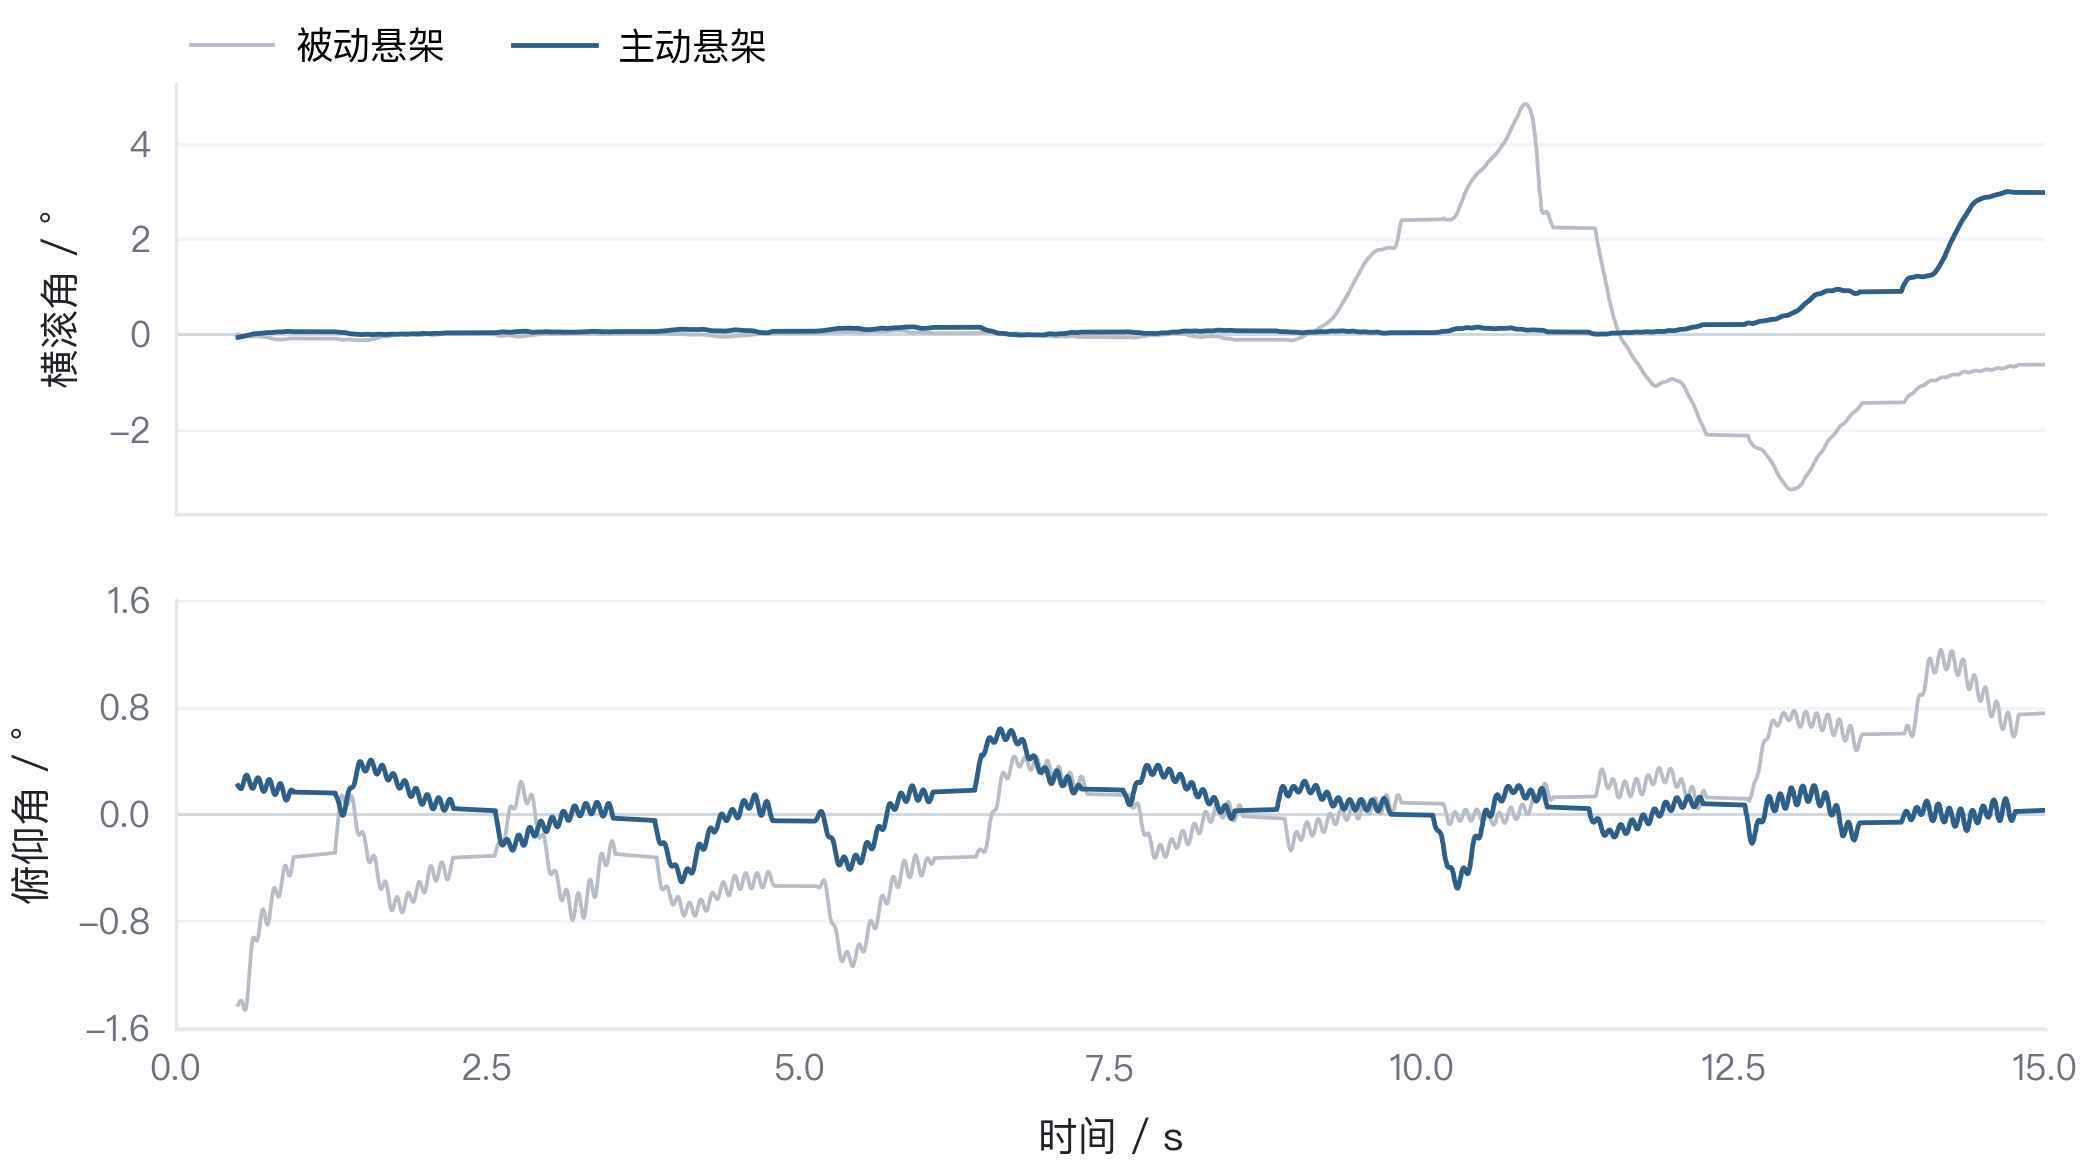
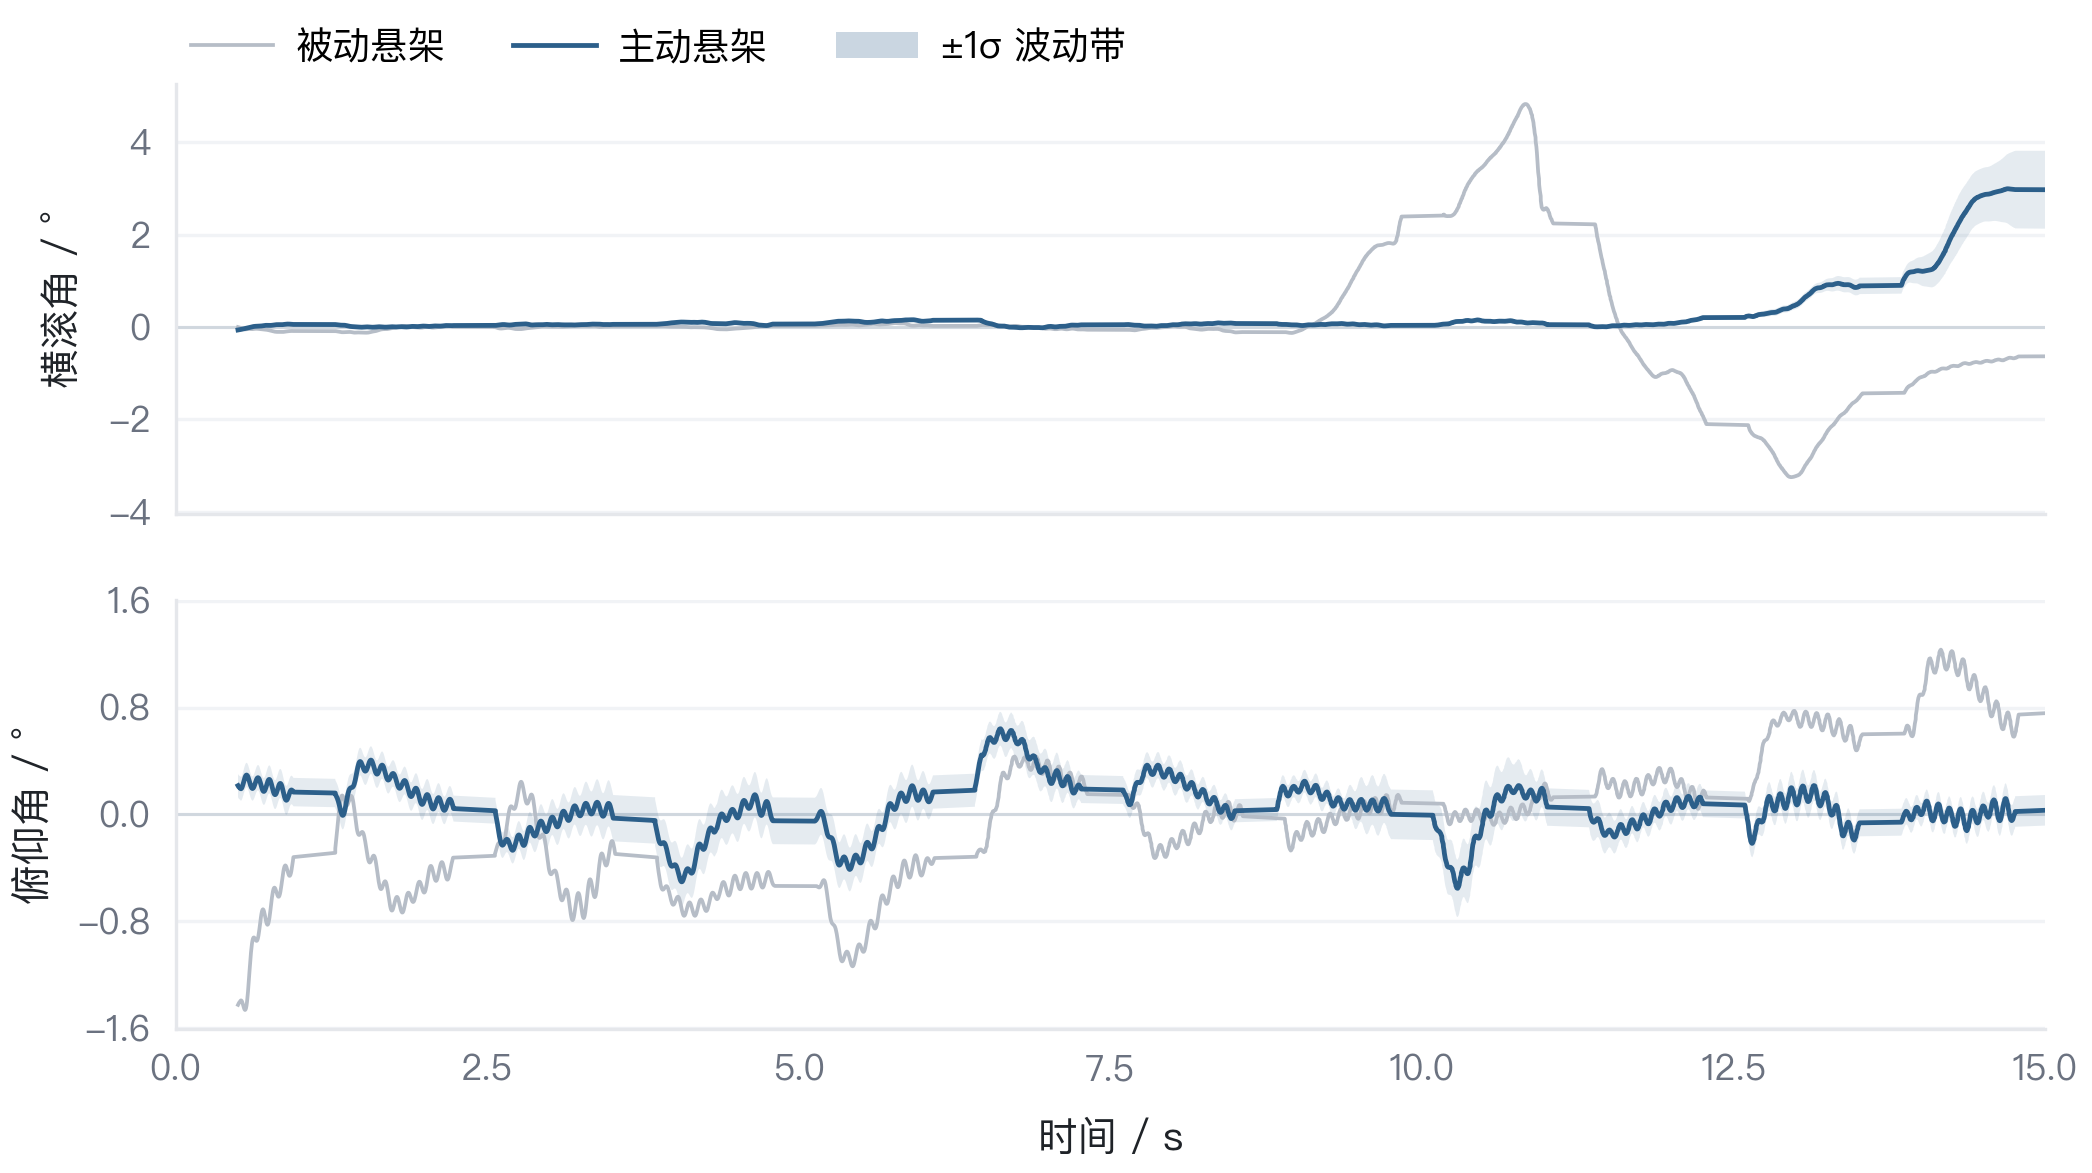
style(docs): 主动曲线加一层很淡的 ±1σ 波动带
## 口径（重要）

"置信带"在这里必须定义清楚，否则很容易变成视觉装饰：

- 单次采集没有重复样本，严格意义的置信区间无从谈起；
- 曲线本身已是 36 ms 滑动平均，相对它的残差 σ 只有 0.001–0.02°，
  按这个口径画出来的带在 300 dpi 图上不足 1 px，实际上不可见；
- 所以改为"原始信号相对 **1 s 趋势线** 的局部 ±1σ"，量级 0.12–0.27°，
  在图上可见且物理含义明确：**1 s 尺度上的观测波动幅度**。
  图注与脚本注释都写明"非统计置信区间"。

## 视觉

- `fill_between`，主动色、透明度 0.12、无描边，zorder 在网格之上、主线之下；
- 图例增加一个同色半透明色块，第三项标注"±1σ 波动带"；
- 波动带会把自动缩放撑大（障碍图纵轴一度变成 -6..17、刻度 0/6/12），
  障碍图把 ylim 钉回 -4.6..17.4，刻度恢复 0/5/10/15；
- 配色、带宽、窗长仍集中在脚本顶部常量：`BAND_ALPHA / BAND_SIGMA /
  BAND_BASE_S / BAND_WINDOW_S / BAND_SMOOTH`。

diff --git a/README.md b/README.md
@@ -379,10 +379,10 @@ ros2 run car_balancer test_imu_node
 > 波动 = 各路段动态行驶段（被动取 `Mode=0` 段、主动取全程）姿态角 / 垂向加速度相对各自均值的峰峰值；改善 =（被动 − 主动）/ 被动。三次测试为不同路段独立采集，工况 02 主动侧俯仰与垂向略高于被动、工况 03 横滚主动侧略大，应与各次路面输入不一致有关，此处如实列出。
 
 <p align="center"><img src="docs/figures/attitude_compare.png" width="660" alt="被动与主动悬架横滚角、俯仰角曲线对比"></p>
-<p align="center"><sub>图 1　常规路面工况（01）：横滚角与俯仰角，250 Hz 原始数据去均值、36 ms 滑动平均</sub></p>
+<p align="center"><sub>图 1　常规路面工况（01）：横滚角与俯仰角，250 Hz 原始数据去均值、36 ms 滑动平均；阴影为主动悬架相对 1 s 趋势线的局部 ±1σ 波动幅度（非统计置信区间）</sub></p>
 
 <p align="center"><img src="docs/figures/obstacle_pitch.png" width="660" alt="越障工况俯仰角响应对比"></p>
-<p align="center"><sub>图 2　越障工况（03）：俯仰角响应，主动悬架峰值明显收窄</sub></p>
+<p align="center"><sub>图 2　越障工况（03）：俯仰角响应，主动悬架峰值明显收窄；阴影口径同图 1</sub></p>
 
 <p align="center"><img src="docs/figures/paper_exp1_compare.png" width="520" alt="论文图 1：实验 1 被动与主动悬架性能指标对比"></p>
 <p align="center"><sub>图 3　项目论文图 1（实验 1）：被动与主动悬架性能指标对比</sub></p>
